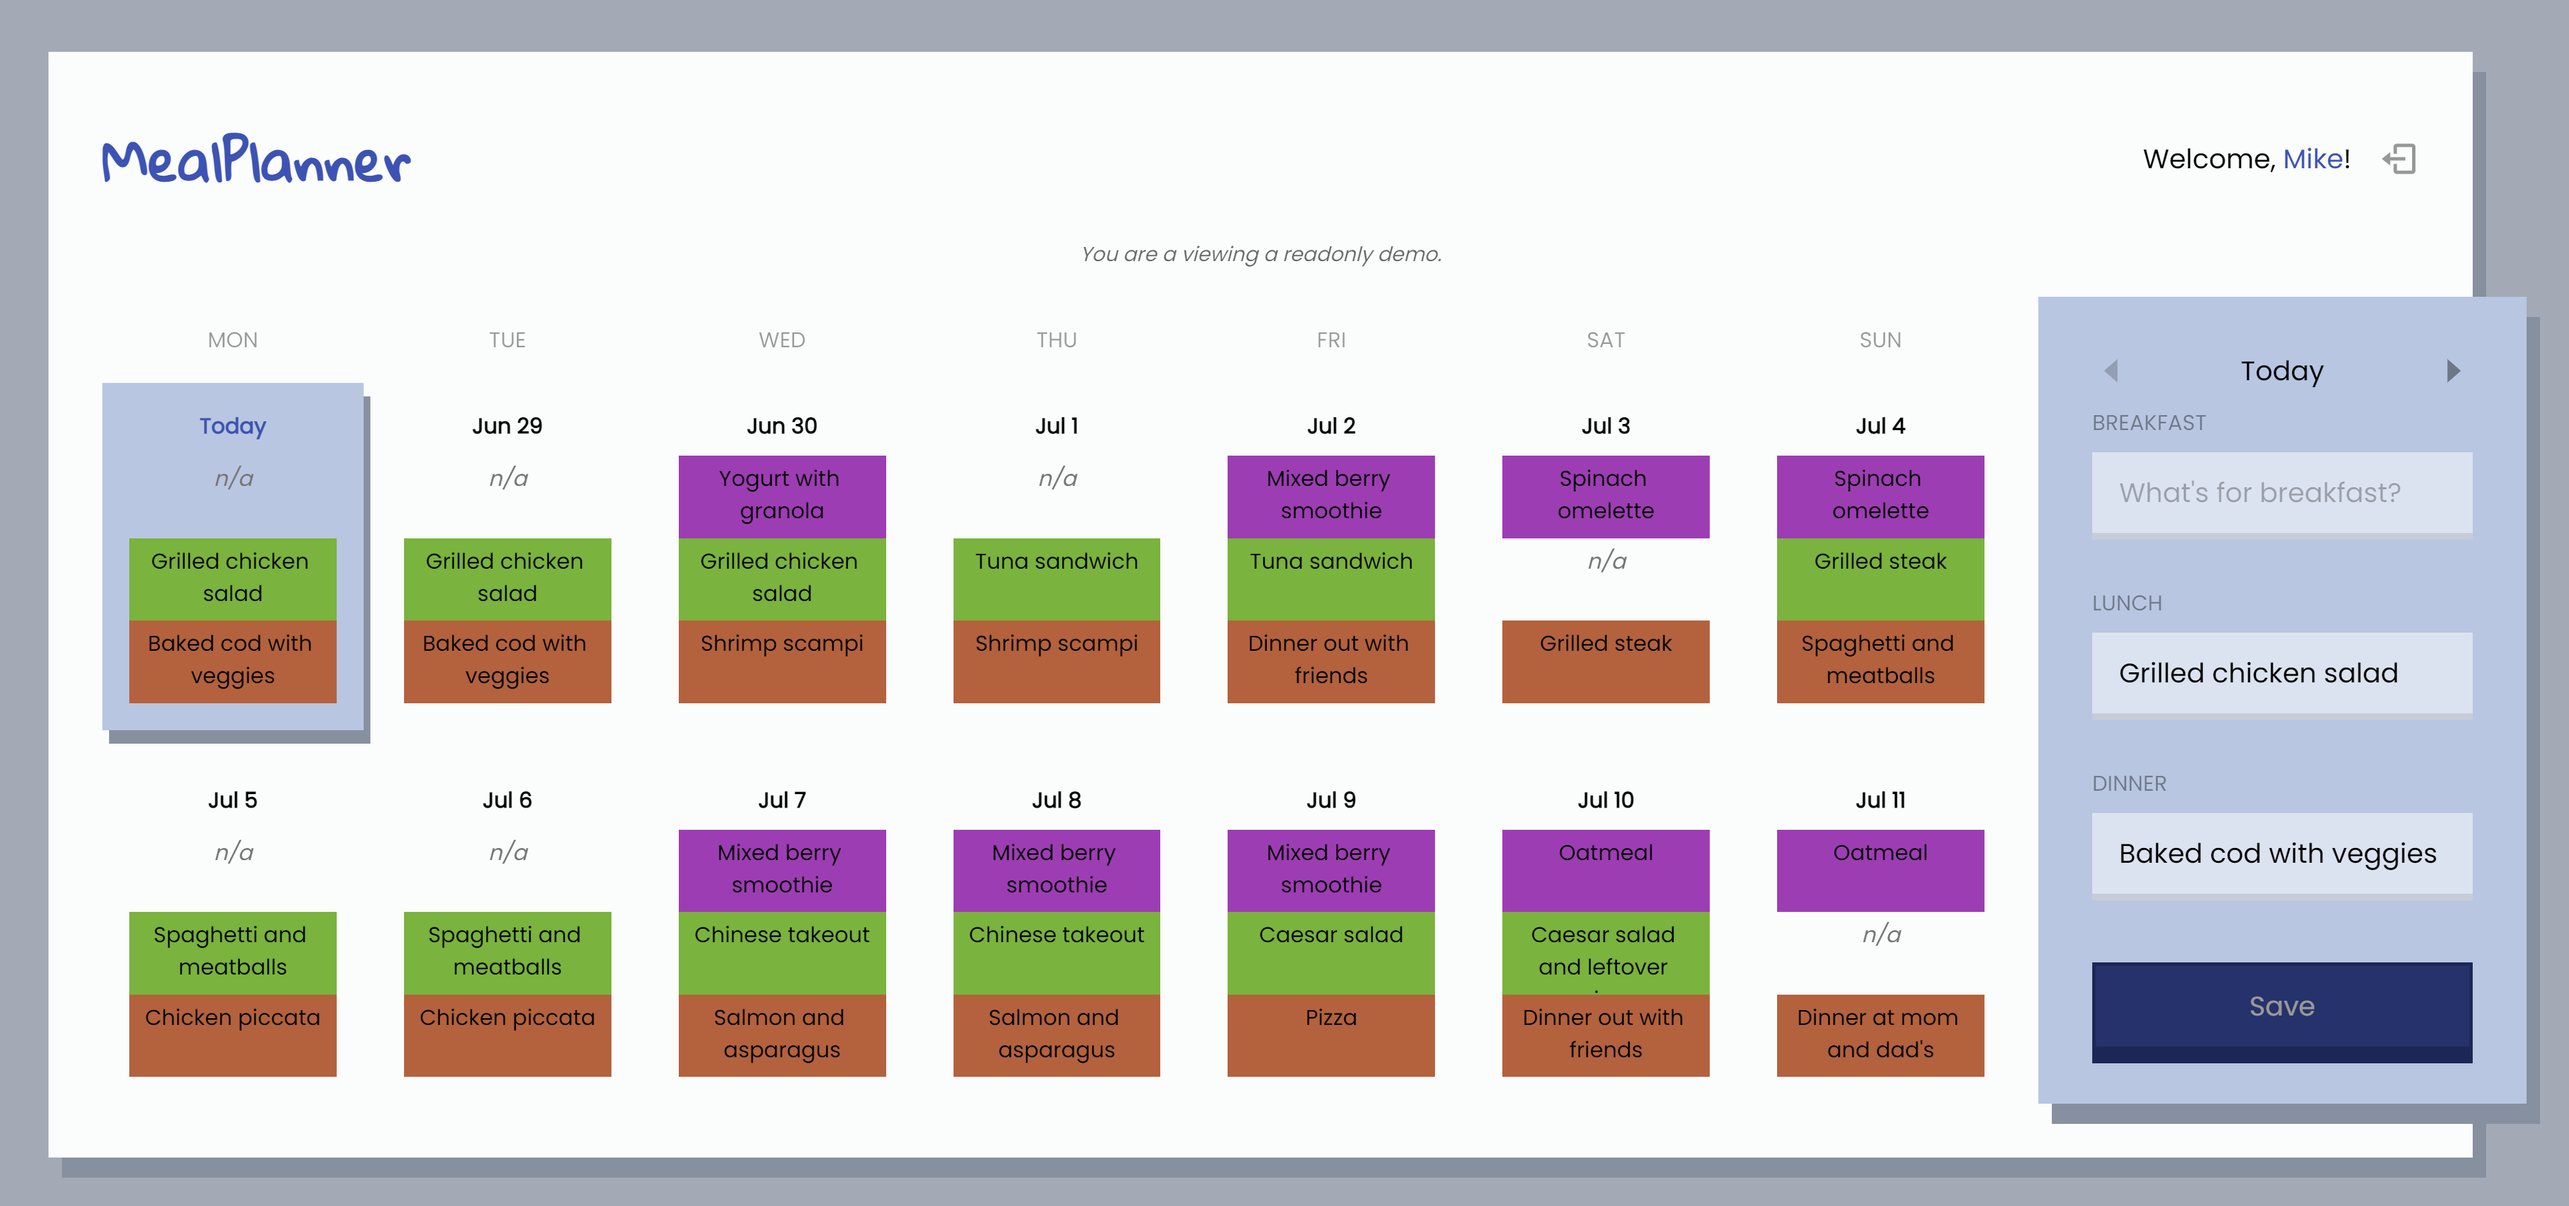
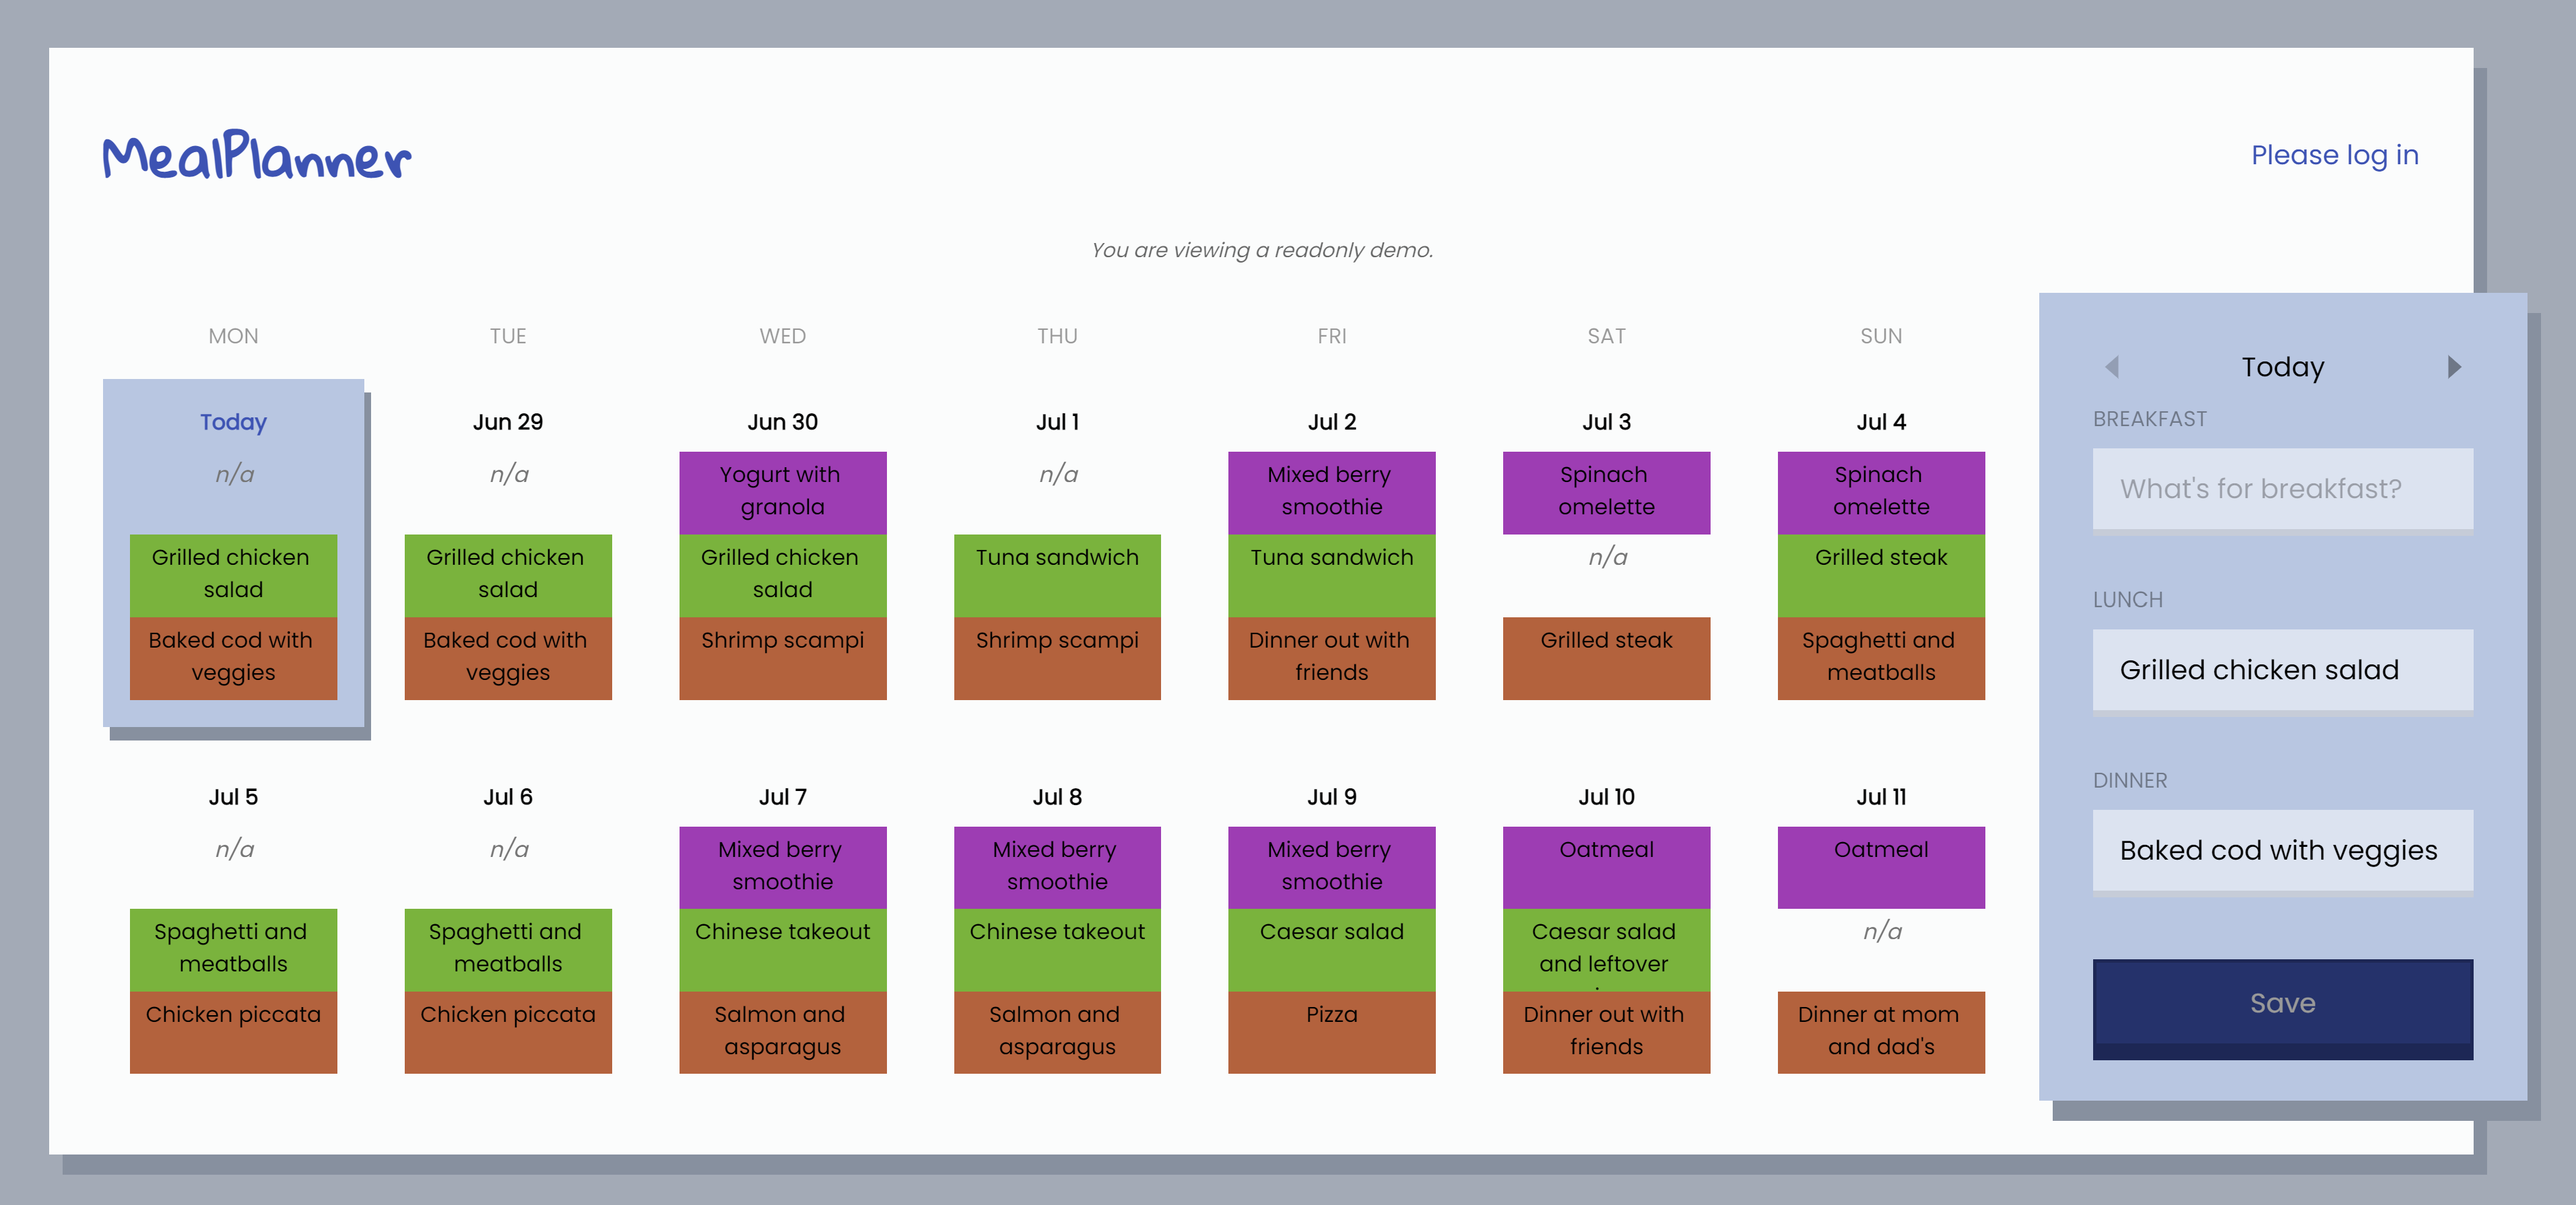
fix: typo

diff --git a/src/components/MealPlanner/MealPlanner.tsx b/src/components/MealPlanner/MealPlanner.tsx
@@ -72,7 +72,7 @@ function MealPlanner() {
         <Header goToLogIn={goToLogIn} />
         {isViewingDemo && (
           <p className="placeholder demo-text">
-            You are a viewing a readonly demo.
+            You are viewing a readonly demo.
           </p>
         )}
         <section className="meal-planner-dashboard">
